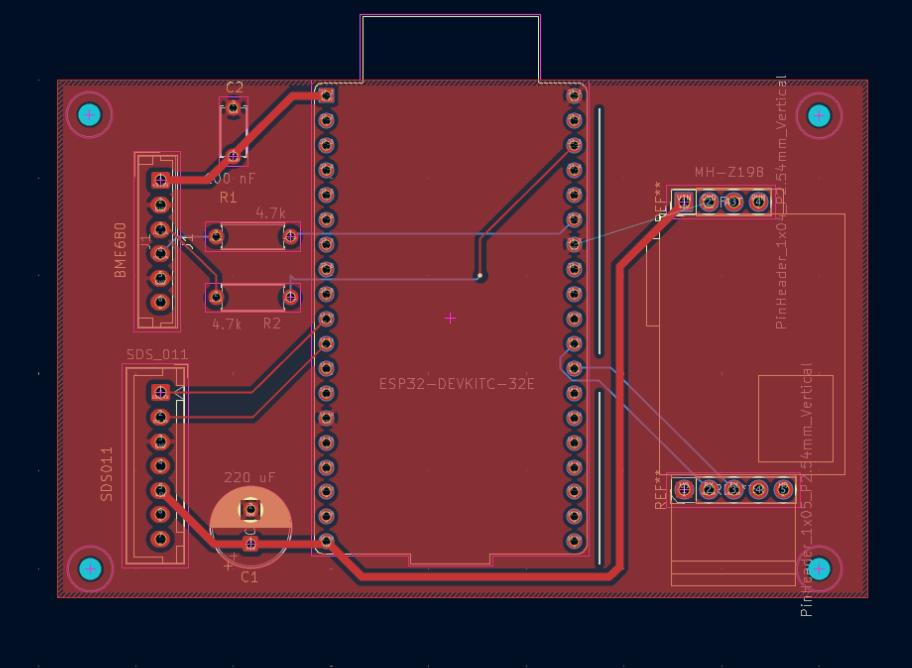
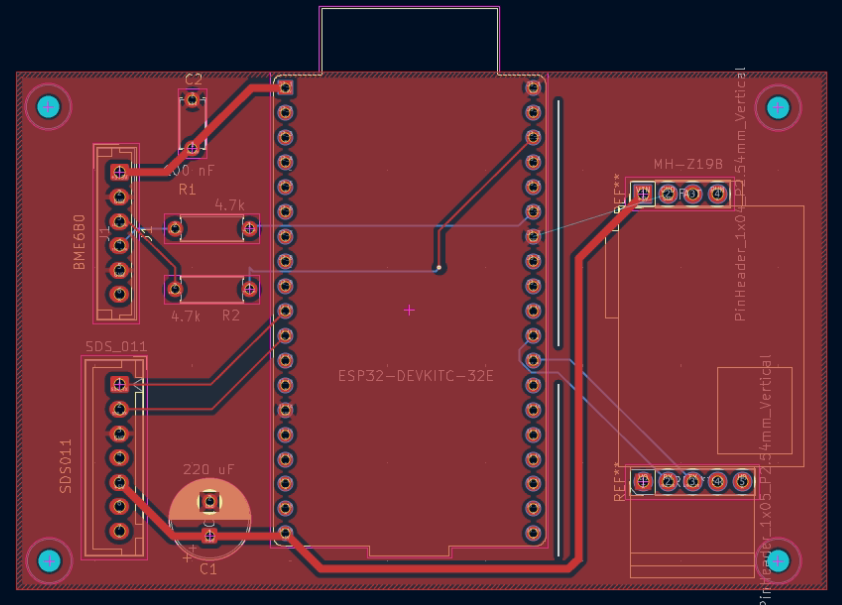
Images de la carte retouchées (fond retiré, recadrage, schéma compacté)
Claude-Session: https://claude.ai/code/session_01MY6rEkue4Br6JvcvDGhZrM

diff --git a/README.md b/README.md
@@ -109,12 +109,12 @@ Sujets MQTT sous `sde/<SDE-XXXX>/` : `status` (testament online/offline), `info`
 Carte porteuse dessinée sous KiCad, fabriquée et soudée : l'ESP32-DevKitC-32E et le MH-Z19B sur connecteurs femelles, des connecteurs JST pour le BME680 et le SDS011, un condensateur de 220 µF sur le 5 V et un découplage de 100 nF sur le 3,3 V.
 
 <p align="center">
-  <img src="docs/images/pcb-3d.png" width="520" alt="Carte porteuse, vue 3D KiCad">
+  <img src="docs/images/pcb-3d.png" width="560" alt="Carte porteuse, vue 3D KiCad">
 </p>
 
 | Schéma | Routage |
 |:---:|:---:|
-| <img src="docs/images/pcb-schema.png" width="420" alt="Schéma KiCad"> | <img src="docs/images/pcb-routage.png" width="420" alt="Routage du PCB"> |
+| <img src="docs/images/pcb-schema.png" width="440" alt="Schéma KiCad"> | <img src="docs/images/pcb-routage.png" width="440" alt="Routage du PCB"> |
 
 Leçons de la V1, à corriger en V2 : le GND du MH-Z19B n'était pas routé (fil volant ajouté sur la carte fabriquée), et R1/R2 se sont retrouvées en série sur SDA/SCL au lieu d'être des résistances de tirage (pontées, le module BME680 a déjà les siennes).
 
